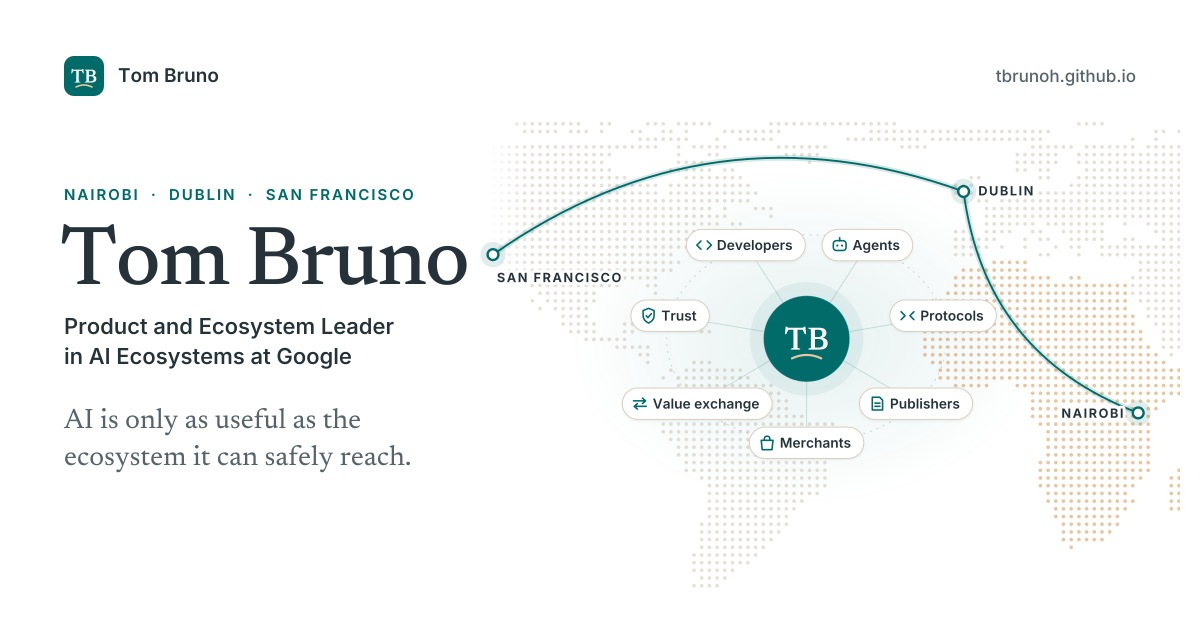
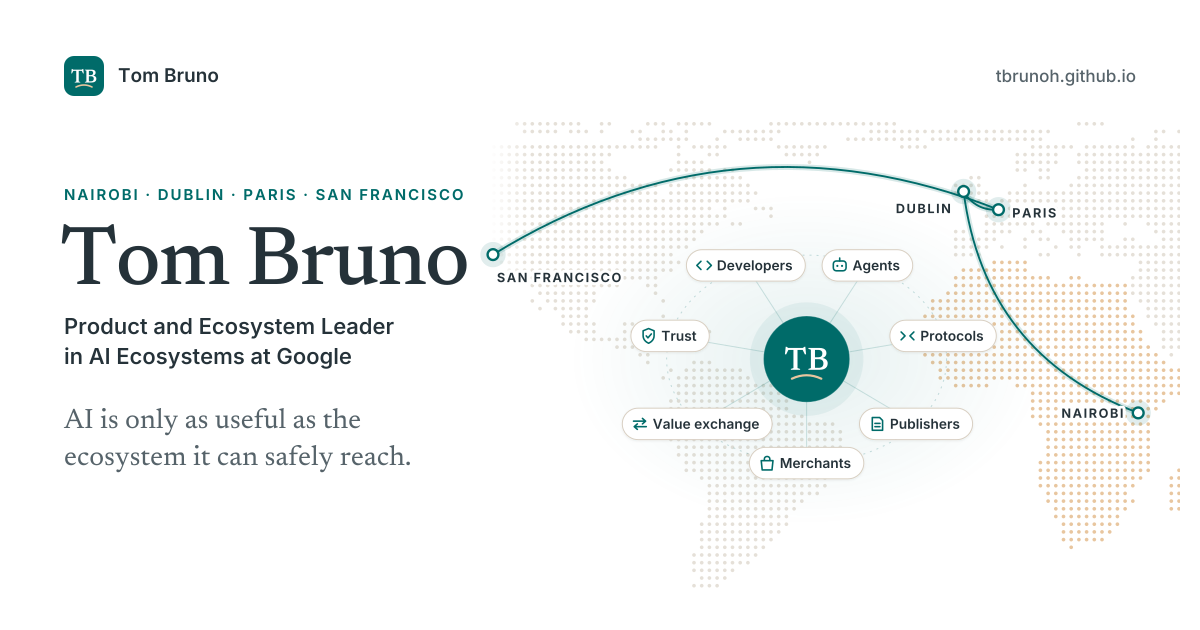
Home: journey now Nairobi, Dublin, Paris, San Francisco; share image and full text updated

diff --git a/index.html b/index.html
@@ -155,7 +155,7 @@
       "url": "https://tbrunoh.github.io/",
       "name": "Tom Bruno | Product and Ecosystem Leader in AI Ecosystems at Google",
       "dateCreated": "2026-11-23T18:00:00-08:00",
-      "dateModified": "2026-11-25T11:15:00-08:00",
+      "dateModified": "2026-11-25T11:45:00-08:00",
       "inLanguage": "en-US",
       "mainEntity": {
         "@id": "https://tbrunoh.github.io/#person"
@@ -247,8 +247,8 @@
     <div class="portrait rise d1"><img src="https://github.com/tbrunoh.png?size=600" alt="Portrait of Tom Bruno" width="300" height="300"></div>
   </header>
   <figure class="panel journey rise d3">
-    <picture><source media="(max-width: 640px)" srcset="/assets/journey-mobile.svg" width="640" height="620"><img src="/assets/journey.svg" width="1056" height="430" alt="A map of Tom Bruno's path from Nairobi, where it began, to Dublin, where his Google career started, to San Francisco today, with TB at the centre of agents, protocols, publishers, merchants, value exchange, trust and developers."></picture>
-    <figcaption><span class="eyebrow">Nairobi · Dublin · San Francisco</span><q>AI is only as useful as the ecosystem it can safely reach.</q></figcaption>
+    <picture><source media="(max-width: 640px)" srcset="/assets/journey-mobile.svg" width="640" height="620"><img src="/assets/journey.svg" width="1056" height="430" alt="A map of Tom Bruno's path from Nairobi, where it began, to Dublin, where his Google career started, to Paris for HEC Paris, to San Francisco today, with TB at the centre of agents, protocols, publishers, merchants, value exchange, trust and developers."></picture>
+    <figcaption><span class="eyebrow">Nairobi · Dublin · Paris · San Francisco</span><q>AI is only as useful as the ecosystem it can safely reach.</q></figcaption>
   </figure>
 
   <section id="work" aria-labelledby="work-h">
